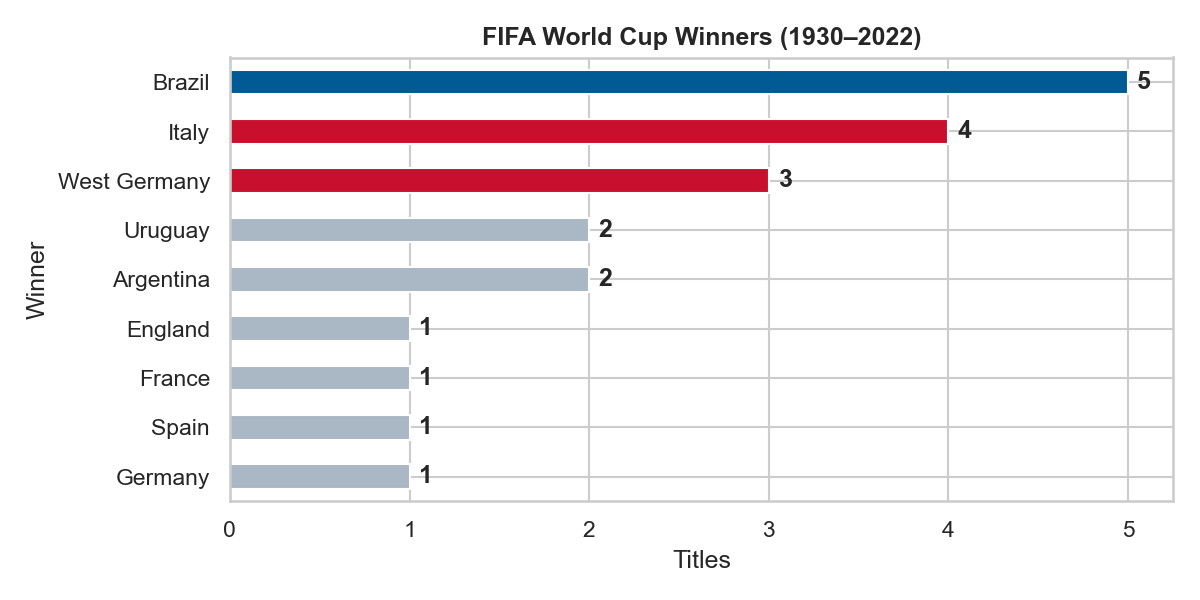
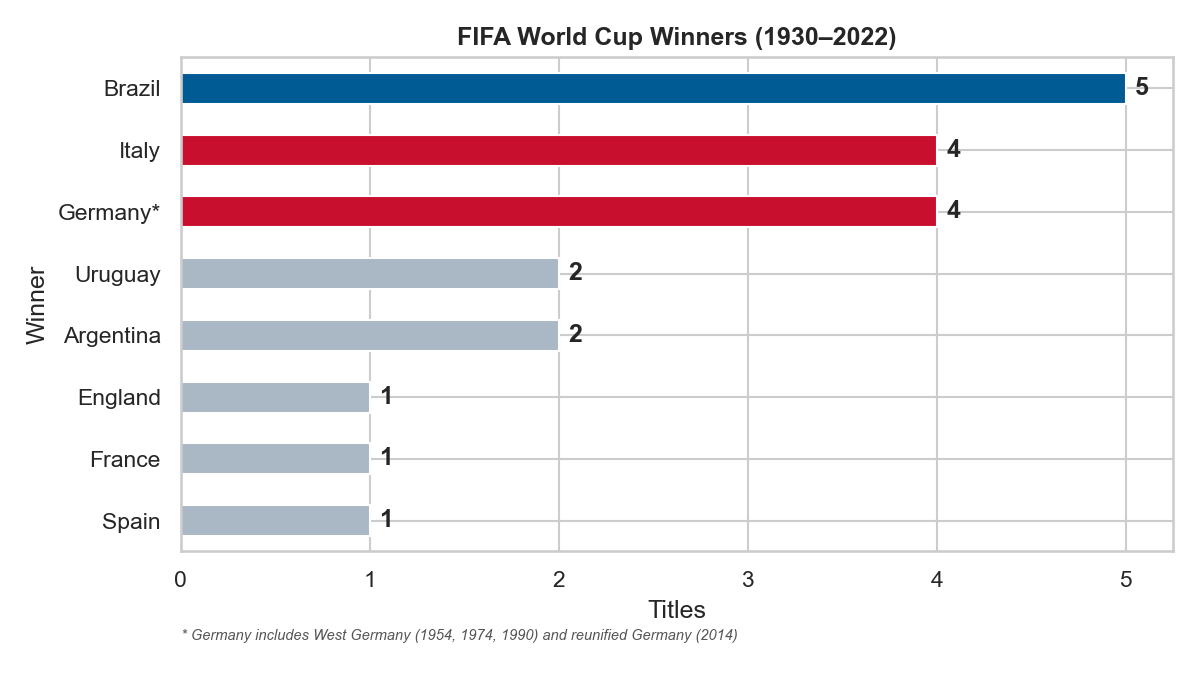
Combine Germany wins in winners chart with footnote
Winners chart now shows 'Germany*' with 4 combined titles and a
footnote: '* Germany includes West Germany (1954, 1974, 1990) and
reunified Germany (2014)'. Underlying data still keeps West Germany
separate for historical analysis.

diff --git a/trivia_game/insights.js b/trivia_game/insights.js
@@ -2,7 +2,7 @@ const INSIGHTS = [
   {
     "image": "charts/winners.png",
     "title": "All-Time Winners",
-    "insight": "Brazil leads with 5 World Cup titles, followed by Italy with 4. West Germany and reunified Germany have won 3 and 1 titles respectively. Argentina joined the 3-title club in 2022."
+    "insight": "Brazil leads with 5 World Cup titles, followed by Germany* and Italy with 4 each. Germany's total combines West Germany (1954, 1974, 1990) and reunified Germany (2014). Argentina joined the 3-title club in 2022."
   },
   {
     "image": "charts/goals_trend.png",

diff --git a/generate_charts.py b/generate_charts.py
@@ -19,8 +19,9 @@ charts = []
 # ============================================================
 # 1. Tournament Winners
 # ============================================================
-winners = cups['Winner'].value_counts()
-fig, ax = plt.subplots(figsize=(8, 4))
+# Combine West Germany + Germany under "Germany*" for the winners chart
+winners = cups['Winner'].replace({'West Germany': 'Germany*', 'Germany': 'Germany*'}).value_counts()
+fig, ax = plt.subplots(figsize=(8, 4.5))
 colors = ['#005A93' if i == 0 else '#c8102e' if i < 3 else '#aab7c4' for i in range(len(winners))]
 winners.plot(kind='barh', ax=ax, color=colors)
 ax.set_xlabel('Titles')
@@ -28,13 +29,15 @@ ax.set_title('FIFA World Cup Winners (1930–2022)', fontweight='bold')
 ax.invert_yaxis()
 for i, v in enumerate(winners.values):
     ax.text(v + 0.05, i, str(v), va='center', fontweight='bold')
+ax.annotate('* Germany includes West Germany (1954, 1974, 1990) and reunified Germany (2014)',
+            xy=(0.0, -0.18), xycoords='axes fraction', fontsize=7, fontstyle='italic', color='#555555')
 plt.tight_layout()
 plt.savefig(os.path.join(out_dir, 'winners.png'), dpi=150)
 plt.close()
 charts.append({
     'image': 'charts/winners.png',
     'title': 'All-Time Winners',
-    'insight': 'Brazil leads with 5 World Cup titles, followed by Italy with 4. West Germany and reunified Germany have won 3 and 1 titles respectively. Argentina joined the 3-title club in 2022.'
+    'insight': 'Brazil leads with 5 World Cup titles, followed by Germany* and Italy with 4 each. Germany\'s total combines West Germany (1954, 1974, 1990) and reunified Germany (2014). Argentina joined the 3-title club in 2022.'
 })
 
 # ============================================================